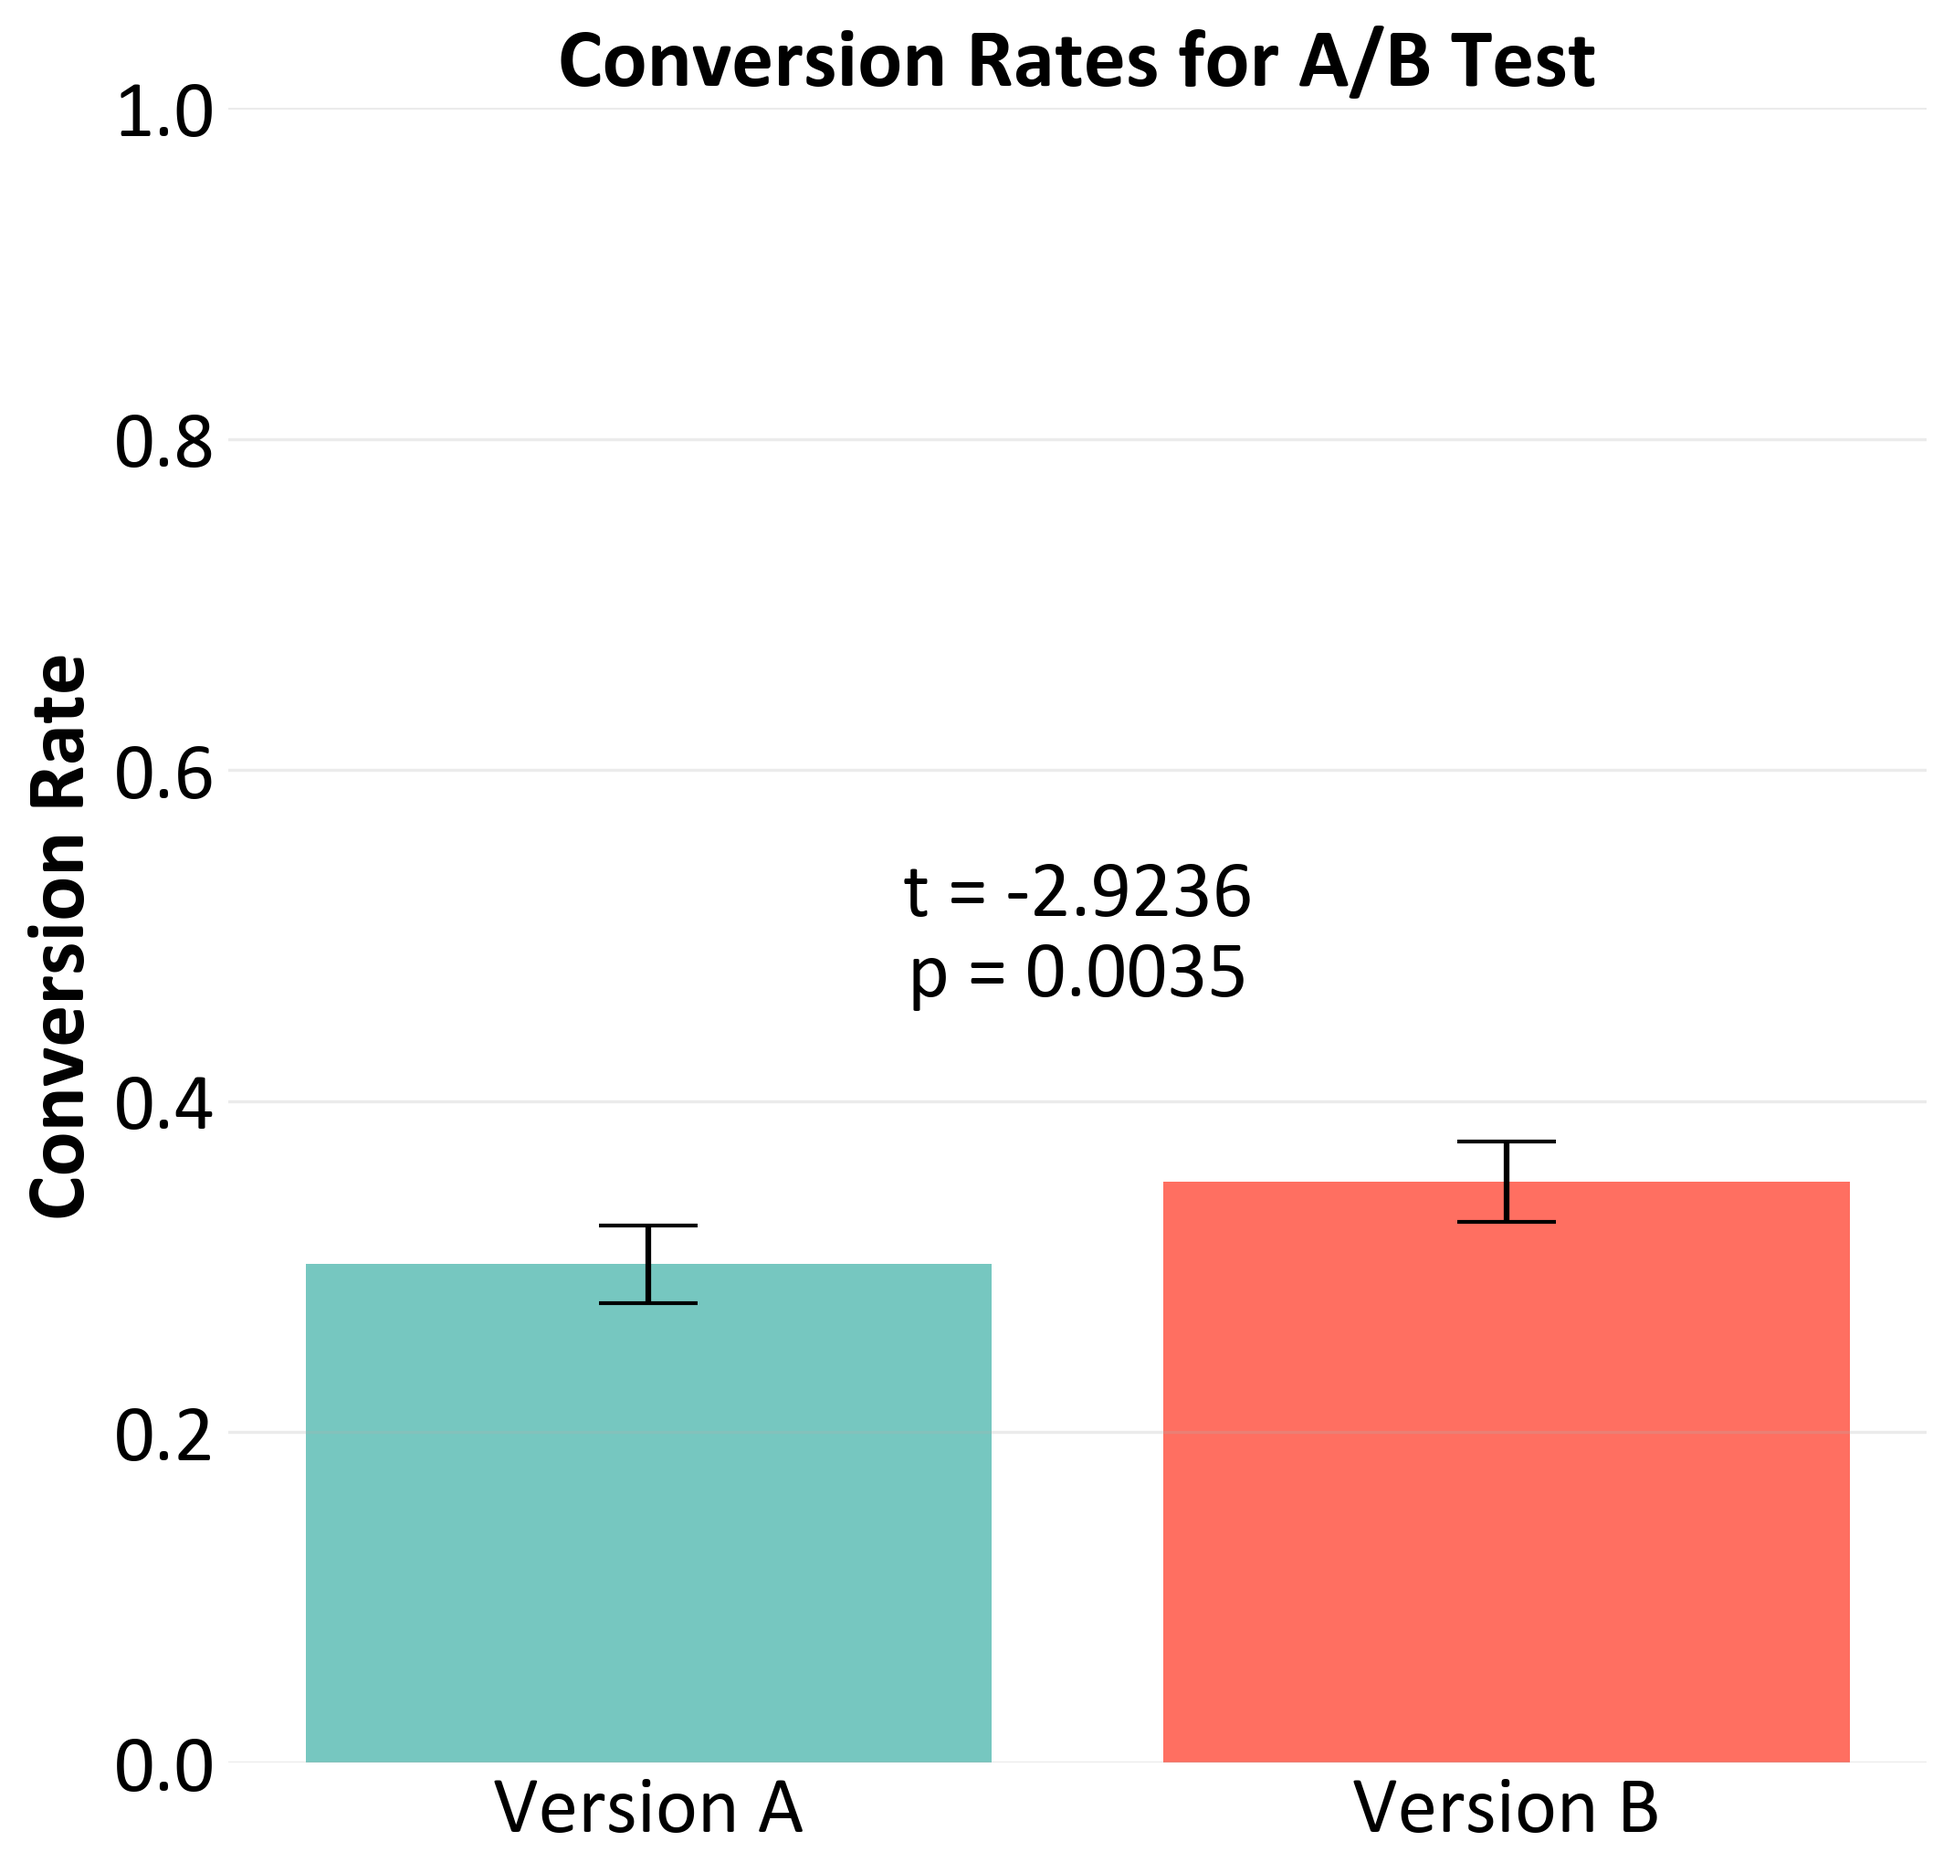
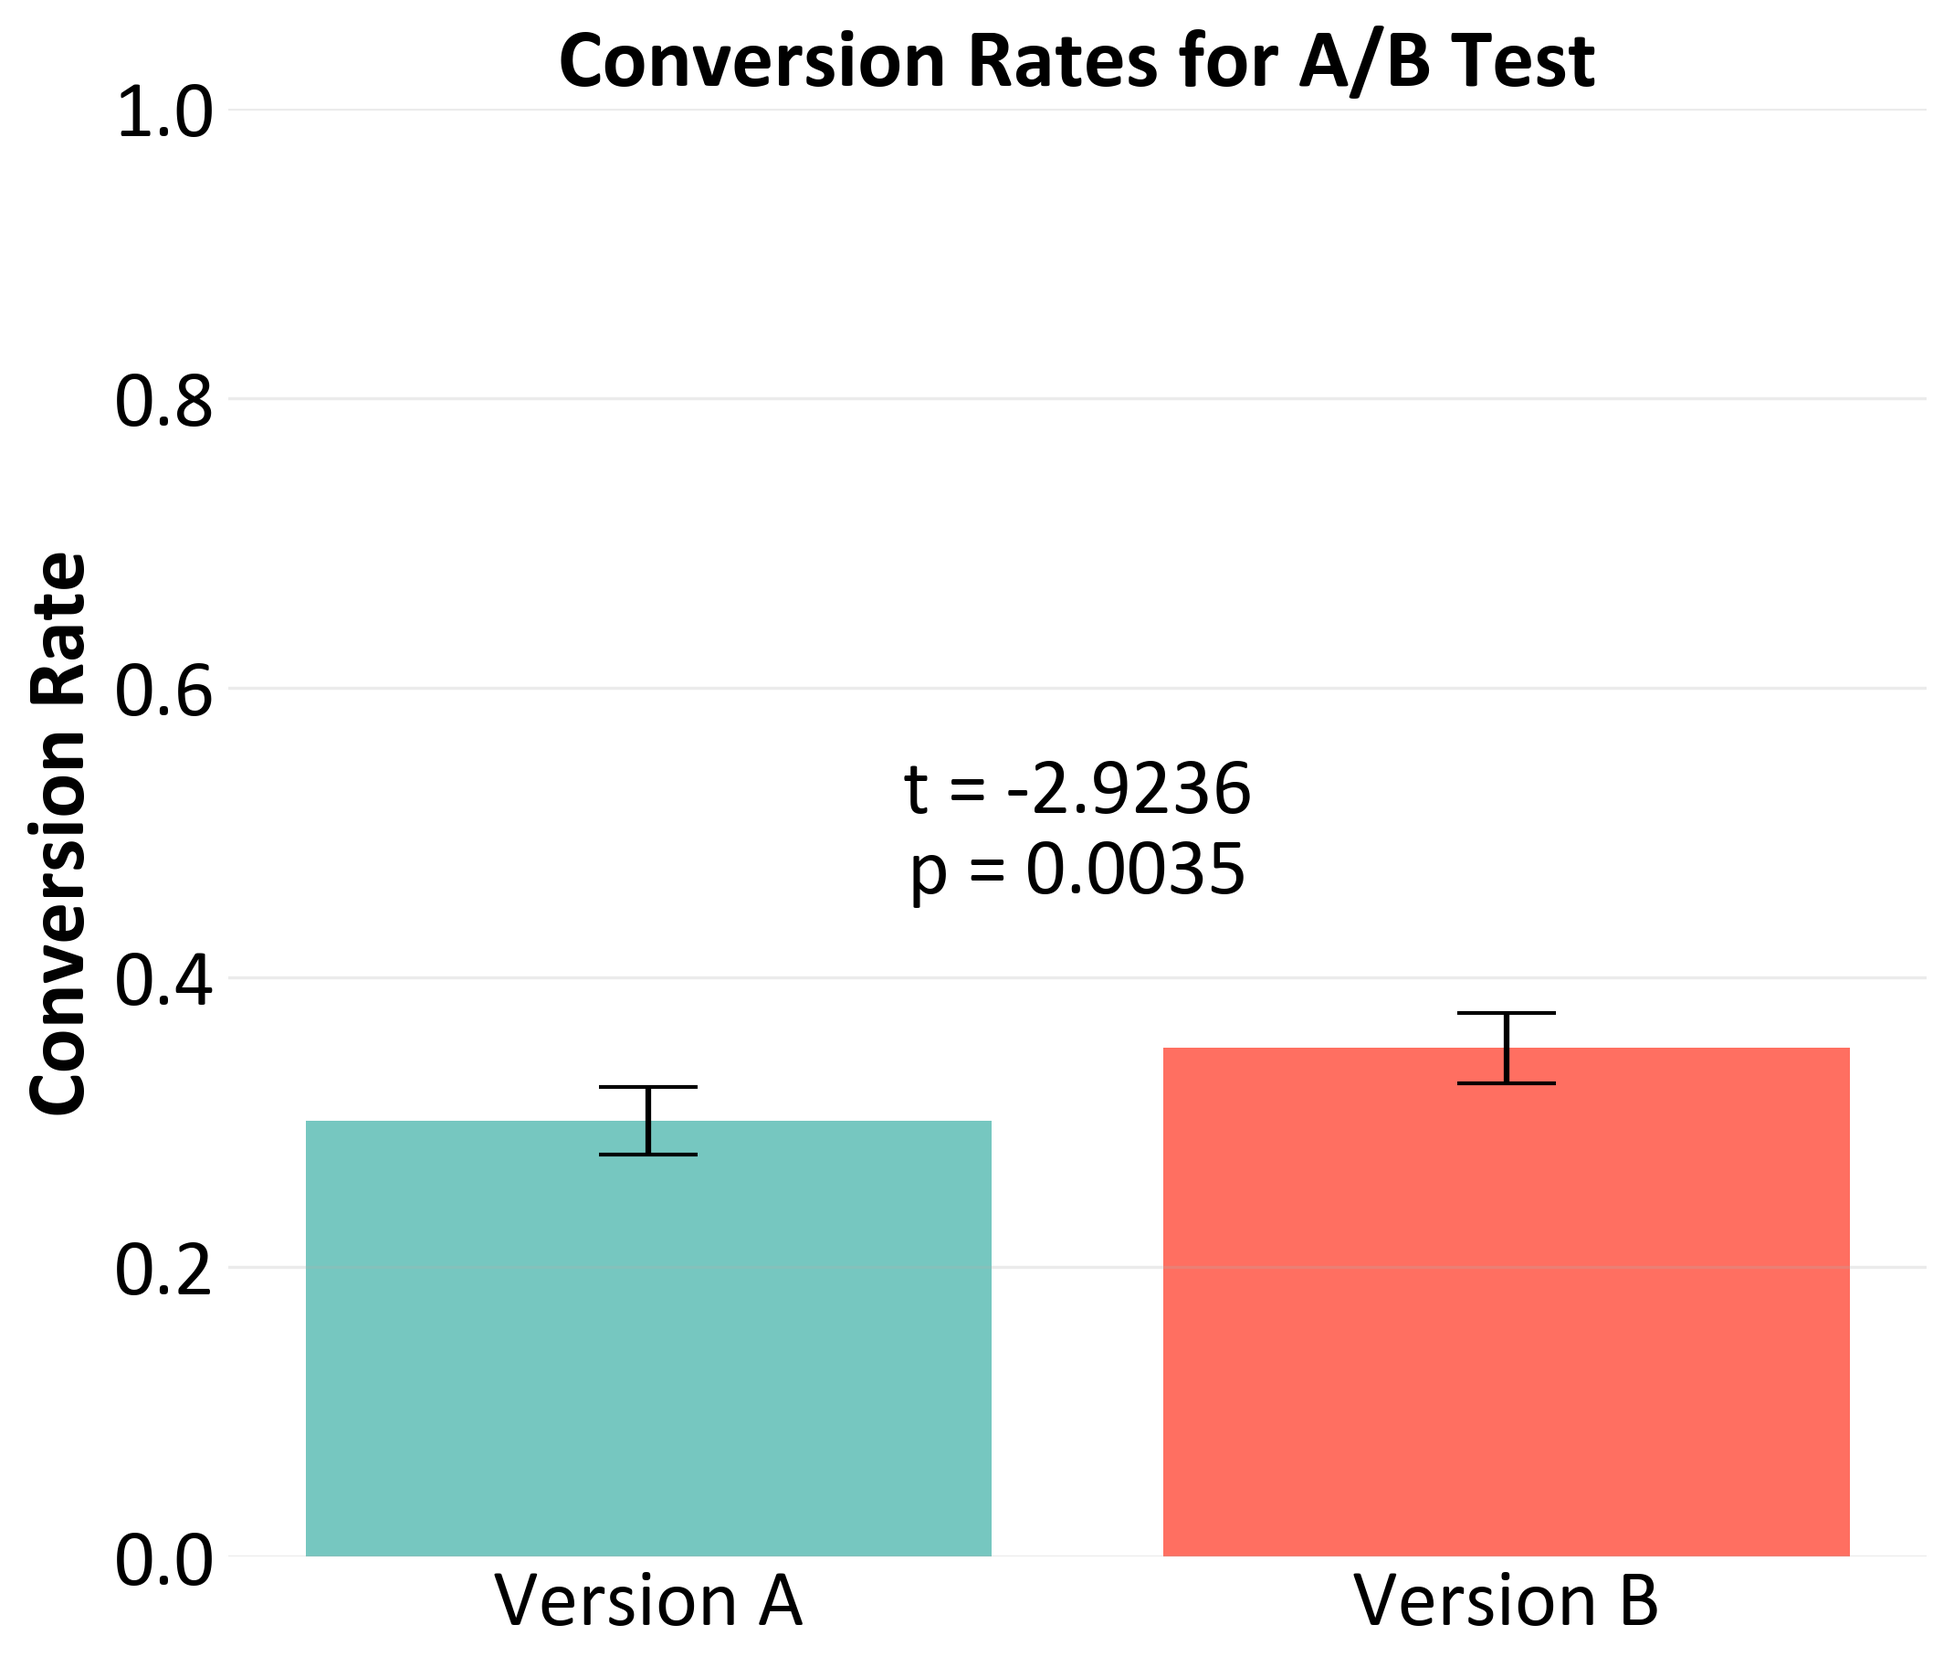
Add files via upload

diff --git a/AB_Test_Simulation_with_Power_Analysis.py b/AB_Test_Simulation_with_Power_Analysis.py
@@ -53,14 +53,14 @@ powers = [power_analysis.solve_power(effect_size, nobs1=n, alpha=alpha) for n in
 
 # Plot power vs sample size
 plt.figure(figsize=(8, 6))
-plt.plot(sample_sizes, powers, label='Power Curve', color='lightblue', lw=3)
+plt.plot(sample_sizes, powers, label='Power Curve', color='lightblue', lw=4)
 plt.axhline(y=0.8, color='red', linestyle='--', label='80% Power')  # Add horizontal line for 80% power
 fs=22
 plt.title('T-Test Power vs. Sample Size', fontsize=fs, fontweight='bold')
 plt.xlabel('Sample Size (n)', fontsize=fs-2, fontweight='bold')
 plt.ylabel('Power', fontsize=fs-2, fontweight='bold')
 plt.ylim(0, 1)
-plt.grid(True)
+plt.grid(True, alpha=0.3)
 plt.xticks(fontsize=fs-2)
 plt.yticks(fontsize=fs-2)
 # Remove axes borders
@@ -134,7 +134,7 @@ error_B = (ci_B[1] - ci_B[0]) / 2  # Half of the CI range
 ##################################################################################################################################################################################################################
 # Plots
 ##################################################################################################################################################################################################################
-plt.figure(figsize=(8, 8))
+plt.figure(figsize=(8, 7))
 plt.rcParams['font.family'] = 'Calibri'
 plt.bar(['Version A', 'Version B'], 
         [conversion_rate_A_observed, conversion_rate_B_observed], 
